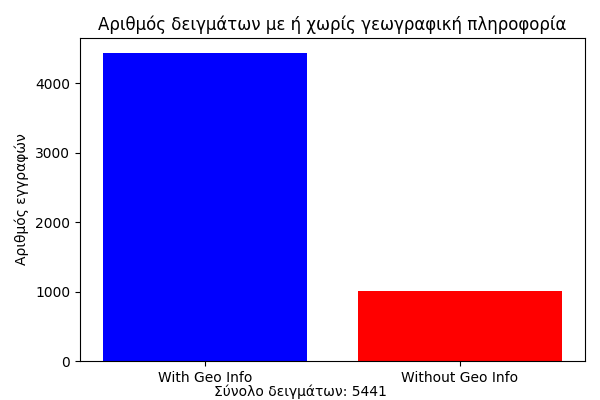
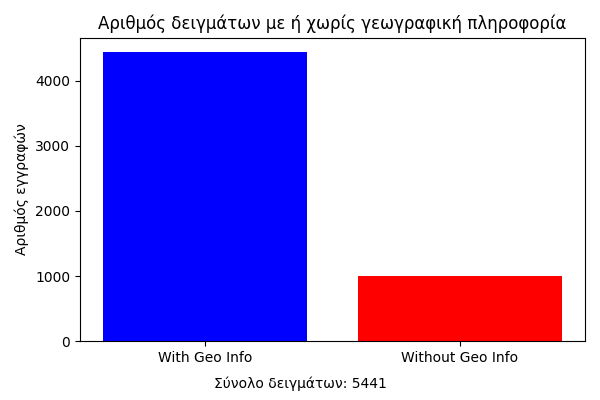
graphs

diff --git a/visualization.py b/visualization.py
@@ -42,7 +42,6 @@ frequency = Counter()
     # Εαν η hits είναι αληθής, τότε η with_geo αυξάνεται κατά 1, διαφορετικά η without_geo αυξάνεται κατά μια μονάδα.
     # frequency[geo_field] += 1 Κάθε φορά που εμφανίζεται κάποιο geo_field του geo_fields, αυξάνεται η τιμή του geo_field με το counter κατα μια μονάδα.
 
-
 for registry in data:
     hits = False
     for geo_field in geo_fields:
@@ -102,6 +101,7 @@ plt.pie(
 # plt.savefig("geo_pie_chart.png") σώζει το γράφημα ως εικόνα .png.
 # plt.show() εμφανίζει το γράφημα στην οθόνη.
 
+plt.figtext(0.5, 0.03, f"Σύνολο δειγμάτων: {total_samples}", ha='center', fontsize=10) # σχολιασμός παρακάτω.
 plt.title("Ποσοστό δειγμάτων με ή χωρίς γεωγραφική πληροφορία")
 plt.tight_layout()
 plt.savefig("geo_pie_chart.png")  # αποθήκευση εικόνας
@@ -119,21 +119,53 @@ colors = ["blue","red"]
 # η .bar() δημιουργεί τις μπάρεις του Bar Chart. στο παράδειγμα μας είναι της μορφής .bar(x,y,colors), δηλαδή οι τιμές του  χ άξονα, στη συνέχεια οι τιμές του ψ άξονα και τέλος τα χρώματα των μπαρών.
 # με .ylabel() ορίζουμε τον τίτλο του κάθετου άξονα.
 
-
 plt.figure(figsize=(6,4))
 plt.bar(labels, sizes, color=colors)
 plt.ylabel("Αριθμός εγγραφών")
 
-# η .figtext() είναι συνάρτηση της matplotlib. Προσθέτει κείμενο στο figure. Οι αριθμοί 0.5 και 0.01 αναφέρονται στην οριζόντια και στην κάθετη θέση.
-# 
+# η .figtext() είναι συνάρτηση της matplotlib. Προσθέτει κείμενο στο figure. Οι αριθμοί 0.5 και 0.01 αναφέρονται στην οριζόντια και στην κάθετη θέση του κειμένου και παίρνουν τιμές από 0 μέχρι και 1, από αριστερά προς τα δεξιά και από κάτω προς τα πάνω αντίστοιχα. το ha αναφέρεται στην στοίχιση του κειμένου και πέρνει τιμές center, left, right και fontsize  μέγεθος γραμματοσειράς. 
  
-plt.figtext(0.5, 0.02, f"Σύνολο δειγμάτων: {total_samples}", ha='center', fontsize=10)
-
-
+plt.figtext(0.5, 0.03, f"Σύνολο δειγμάτων: {total_samples}", ha='center', fontsize=10)
 
 # Όπως και στο προηγούμενο βήμα, ορίζουμε .title(), .tight_layout(), .savefig(), .show() για τους ίδιους ακριβώς λόγους.
 
 plt.title("Αριθμός δειγμάτων με ή χωρίς γεωγραφική πληροφορία")
-plt.tight_layout(rect=[0, 0.05, 1, 1])
+plt.tight_layout(rect=[0, 0.05, 1, 1])  # η συγκεκριμένη ρύθμιση για .tight_layout() τραβάει το γράφημα λίγο προς τα πάνω για να κάνει χώρο και για το .figtext() να χωρέσει.
 plt.savefig("geo_bar_Chart.png")
 plt.show()
+
+# Pie Chart και Bar Chart για την γραφική απεικόνιση των πεδίων του geo_fields. Βλέπουμε ποιά είναι τα πεδία με τα πλουσιότερα γεωγραφικά δεδομένα.
+
+# Βήμα 8: Μετατροπή του αντικειμένου Counter σε λίστες ώστε να μπορούν να αξιοποιηθούν για διαγράμματα. frequency = ["key1":value1, "key2:value2, etc..."]
+
+field_names = list(frequency.keys()) # δημιοργεί λίστα η οποία έχει τα ονόματα των πεδίων του frequency
+
+field_values = list(frequency.values()) # λίστα με τις τιμές των πεδίων του frequency
+
+field_precentages = (with_geo / total_samples * 100 for field_value in field_values ) # ποσοστά γεωγραφικών δεδομένων ως προς το σύνολο των δειγμάτων με γεωγραφικά δεδομένα. Θέλουμε αριθμητικά ποσοστά τα οποία και θα τα χρησιμοποιήσουμε για την κατασκευή των διαγραμμάτων. Για κάθε τιμή απο την λίστα των τιμών .values(). Συνολικά, φτιάχνουμε μια λίστα με τα αριθμητικά ποσοστά για κάθε πεδίο που επιθυμούμε να αναπαραστίσουμε.
+
+# Βήμα 9: Διάγραμμα Pie Chart για ποσοστιαία αναπαράσταση του τύπου της γεωγραφικής πληοροφορίας που παρουσιάζεται στα δείγματα, ως προς το σύνολο των δειγμάτων.
+
+plt.figure(figsize=(7, 7))
+plt.pie(field_precentages, labels=field_names, startangle=90, colors=any  # οπου field_precentages οι τιμές για το διάγραμμα Pue και labels τα ονόματα που συνοδεύουν τις τιμές του field_precentages.
+autopct= lambda p: f"{p:.1f}%\n({int(p * total_samples / 100)})",) # με λάμδα ορίζουμε μια συνάρτηση. Με p: εμφανίζουμε ποσοστό. Στη πρώτη γραμμή \n έχουμε ποσοστό p με ένα δεκαδικο ψηφίο .1f% το f{} μάλλον χρείαζεται για το συντακτικό απλά. Στη δεύτερη γραμμή, από το ποσοστά field_precentages θα υπολογίσουμε ξανά τις τιμές field_values, διότι η lambda συνάρτση δεν έχει πρόσβαση στην λίστα αυτή. Η συνάρτηση int μετατρέπει ένα κλάσμα σε ακέραιο αριθμό.
+plt.title("Γραφική, ποσοστιαία αναπαράσταση της συχνότητας εμφάνισης\n(του τύπου της γεωγραφικής πληροφορίας)\n(ως προς το σύνολο των δειγμάτων)")
+plt.tight_layout() #ορίζει αυτόματα το layout.
+plt.figtext(0.5, 0.02, f"Σύνολο δειγμάτων: {total_samples}", ha="center", fontsize=10) # λεζάντα κάτω από το γράφημα, όπως περιγράφεται παραπάνω. 
+plt.savefig("field_precentages_pie_chart.png")
+plt.show()
+
+colors_bar_chart = [
+    "#4E79A7",  # Μπλε
+    "#F28E2B",  # Πορτοκαλί
+    "#E15759",  # Κόκκινο
+    "#76B7B2",  # Κυανό-πράσινο
+    "#59A14F",  # Πράσινο
+    "#EDC948",  # Κίτρινο
+    "#B07AA1",  # Μοβ
+]
+
+plt.figure(figsize=(9,5))
+plt.bar(field_names, field_values, colors_bar_chart=any) #σε .bar() δεν ορίζουμε ως labels=   
+plt.ylabel("Συχνότητα εμφάνισης γεωγραφικής πληροφορίας.")
+plt.title
